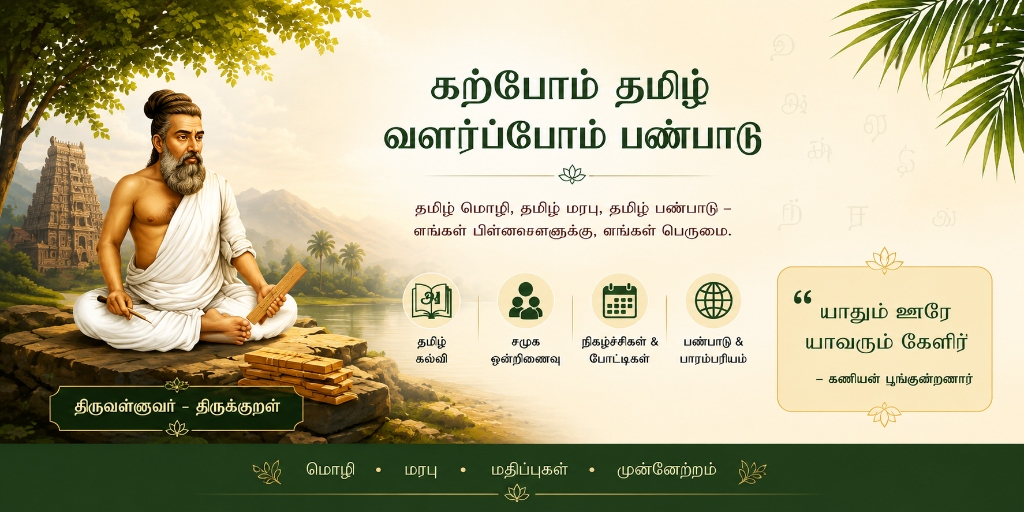
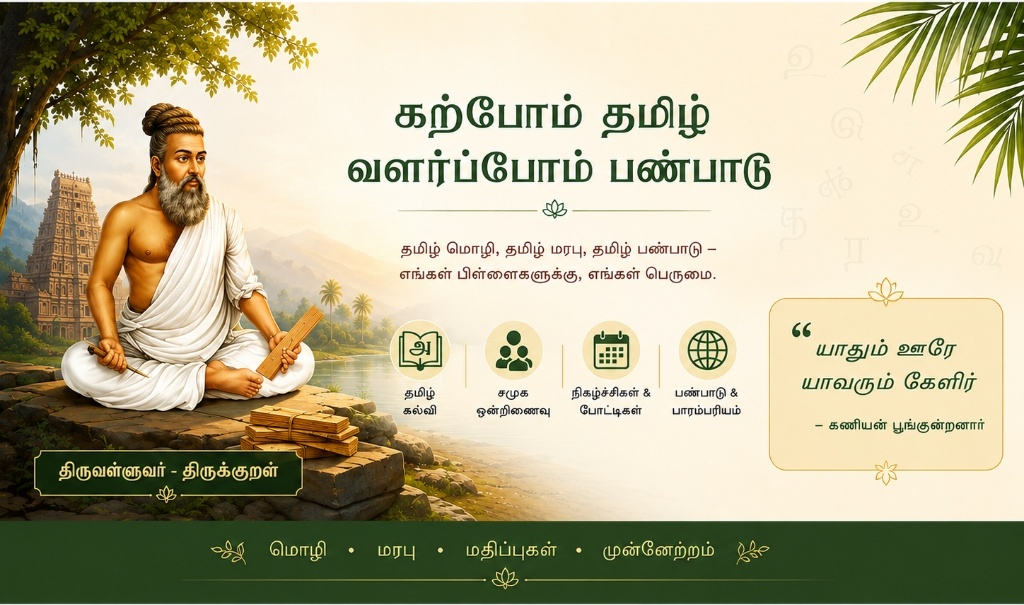
Replaced slide 0 hero image with cropped 1024x605 version (with no top/bottom white borders) and updated the hero container height multiplier to (605 / 1024) to scale perfectly

diff --git a/src/app/landing.tsx b/src/app/landing.tsx
@@ -354,8 +354,8 @@ export default function LandingScreen({ onLoginSuccess }: LandingScreenProps) {
         <View style={[
           styles.heroContainer, 
           { 
-            height: screenWidth * 0.5, 
-            minHeight: screenWidth * 0.5, 
+            height: screenWidth * (605 / 1024), 
+            minHeight: screenWidth * (605 / 1024), 
             paddingVertical: 0, 
             backgroundColor: activeHeroIdx === 0 ? '#FAF6EB' : '#050B0D' 
           }
